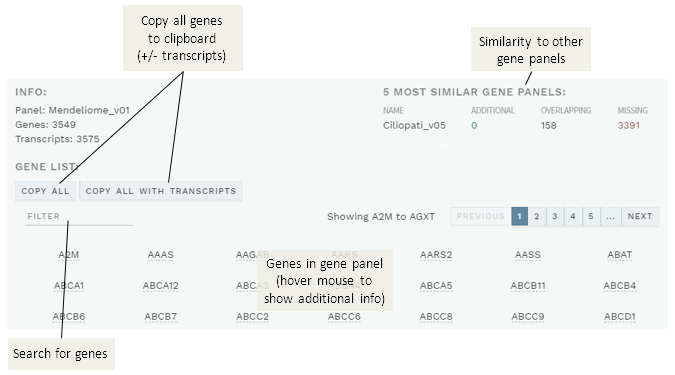
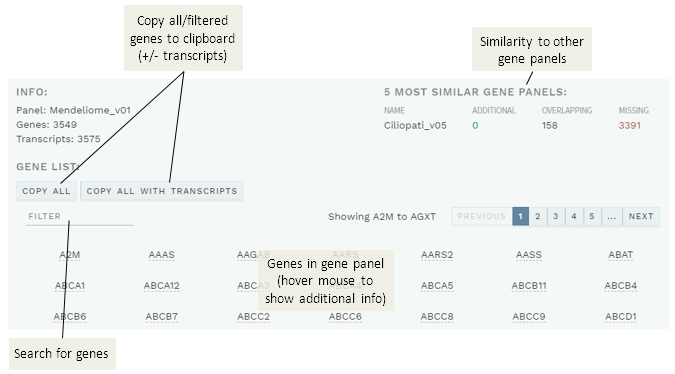
[docs] Update docs for v1.8. Added changes for MR !333

diff --git a/docs/releasenotes/README.md b/docs/releasenotes/README.md
@@ -31,9 +31,9 @@ Note that neither "other" or unweighted ACMG criteria are counted in the calcula
 
 #### Filter improvements: Gene and allele ratio
 
-The filter settings now allows using genes as a variable in rules for filters or exceptions. This allows conditioning any rule on the presence/absence of a gene. 
+The filter settings now allows using genes as a variable in rules for filters or exceptions. This allows conditioning any rule on the presence/absence of a gene, e.g. exclude certain genes from a particular filter.
 
-In addition, it is now also possible to use allele ratio (alternative allele reads/total reads) as a variable in the quality filter. In our experience, this gives a more powerful filter than using the `qual` variable, removing more true technical variants, especially for high sequencing depths. However, a caveat is that mosaic variants may be missed. 
+In addition, it is now also possible to use allele ratio (alternative allele reads/total reads) as a variable in the quality filter. In our experience, this gives a more powerful filter than using the `qual` variable, especially for high sequencing depths. A caveat is that mosaic variants may be missed, but this can be partially be circumvented by adding particular genes where mosaics are expected to a gene exclusion rule as described above.
 
 
 ### All changes
@@ -56,6 +56,10 @@ In addition, it is now also possible to use allele ratio (alternative allele rea
 - Increased number of retrieved reference search results. 
 <!-- MR !332 -->
 - Added "Documentation" link to all pages.
+<!-- MR !333-->
+- Added possibility to copy gene + transcripts from filtered results in GENE PANEL INFO.
+<!-- MR !333-->
+- Fixed bug that caused non-working filtering in GENE PANEL INFO if using wrong case.
 <!-- MR !320 -->
 - Fixed bug causing inability to finish an analysis workflow when all variants were marked as "Not relevant".
 <!-- MR !326 -->

diff --git a/docs/manual/info-page.md b/docs/manual/info-page.md
@@ -40,6 +40,6 @@ Selecting this will bring up a pop-up showing the included genes:
 
 - Quickly search for a gene using the FILTER box.
 
-- Copy all genes in the gene panel, with or without default transcripts, using the `COPY ALL`/`COPY ALL WITH TRANSCRIPTS` buttons.
+- Copy all genes in the gene panel, with or without default transcripts, using the `COPY ALL`/`COPY ALL WITH TRANSCRIPTS` buttons. Note: If you have used the filter/search, `ALL` changes to `FILTERED`, and only the shown genes will be copied.
 
 - Also shown (top right) is the five most similar gene panels, with overlapping (equal), additional and missing genes. Note that this does not take into account any differences in default transcripts.  
